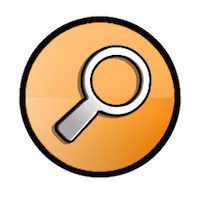
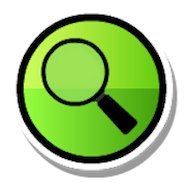
# 1.0.2

diff --git a/src/htmlHelper.cpp b/src/htmlHelper.cpp
@@ -332,7 +332,7 @@ namespace htmlHelper
 				FLAlertLayer::create(
 					errorCString,   
 					"Song search failed, please check your internet connection.", 
-					"Bruh"
+					"Okay"
 				)->show();
 			}
 			else

diff --git a/changelog.md b/changelog.md
@@ -3,3 +3,8 @@
 
 # 1.0.1
 - Now shows an alert if there are no results for your search query
+
+# 1.0.2
+- Changed textures to more vanilla/natural ones.
+- Made alerts more consistent in writing style
+- Readjusted some buttons' sizes
